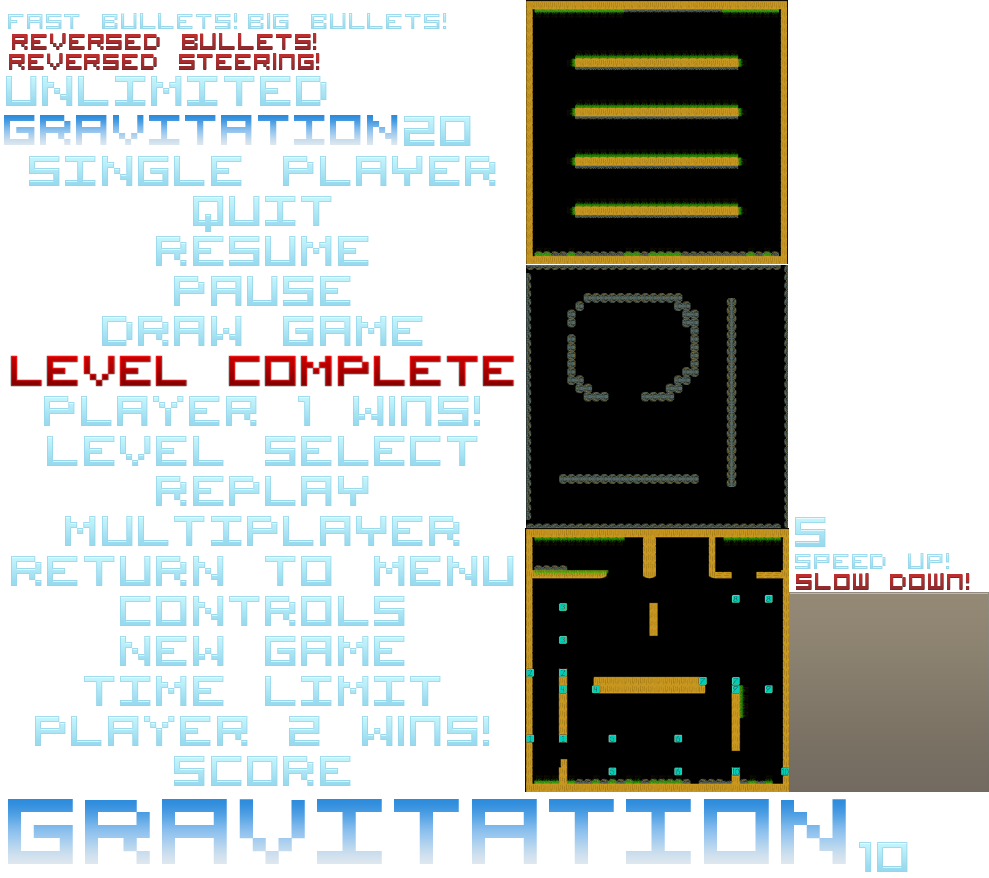
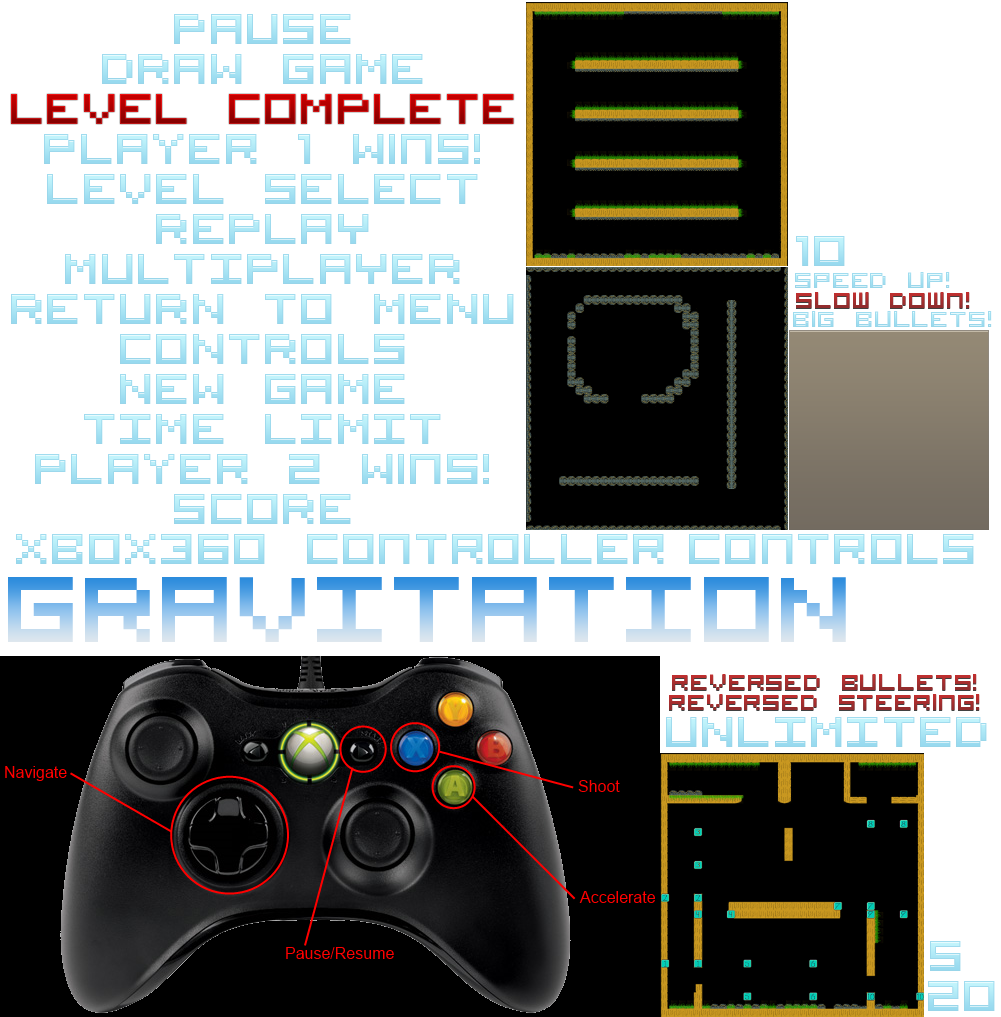
Working on a controls screen

diff --git a/Gravitaion/src/se/fredin/gravitation/screen/ui/MainMenuScreen.java b/Gravitaion/src/se/fredin/gravitation/screen/ui/MainMenuScreen.java
@@ -20,14 +20,16 @@ import com.badlogic.gdx.scenes.scene2d.ui.Image;
  */
 public class MainMenuScreen extends MenuBase {
 	
-	private Button singlePlayerButton, multiPlayerButton, quitButton;
+	private Button singlePlayerButton, optionsButton, multiPlayerButton, quitButton;
 	private boolean singlePlayerButtonClicked;
 	private boolean multiPlayerButtonClicked;
 	private boolean quitButtonClicked;
 	private Image titleImage;
 	private final byte SINGLE_PLAYER = 1; 
-	private final byte MULTIPLAYER = 2; 
-	private final byte QUIT = 3;		
+	private final byte OPTIONS = 2; 
+	private final byte MULTIPLAYER = 3; 
+	private final byte QUIT = 4;
+	protected boolean optionsButtonPressed;		
 	
 	public MainMenuScreen(Game game) {
 		super(game);
@@ -36,6 +38,7 @@ public class MainMenuScreen extends MenuBase {
 		if(!Gravitation.isMobileDevice()) {
 			setListener(multiPlayerButton, MULTIPLAYER);
 		}
+		setListener(optionsButton, OPTIONS);
 		setListener(quitButton, QUIT);
 		setPositionsAndSizes(camera.viewportWidth, camera.viewportHeight);	
 	}
@@ -65,6 +68,9 @@ public class MainMenuScreen extends MenuBase {
 		} else if(multiPlayerButtonClicked && uiHelper.isFinishedActing(whiteCanvasImage)) {
 			stage.clear();
 			game.setScreen(new LevelSelect(game, GameMode.MULTI_PLAYER));
+		} else if(optionsButtonPressed && uiHelper.isFinishedActing(optionsButton)) {
+			stage.clear();
+			game.setScreen(new OptionsScreen(game));
 		} else if(quitButtonClicked && uiHelper.isFinishedActing(whiteCanvasImage)) {
 			Gdx.app.exit();
 		}
@@ -76,6 +82,7 @@ public class MainMenuScreen extends MenuBase {
 		if(!Gravitation.isMobileDevice()) {
 			multiPlayerButton = uiHelper.getButton("multiplayer");
 		}
+		optionsButton = uiHelper.getButton("options");
 		quitButton = uiHelper.getButton("quit");
 		
 		titleImage = uiHelper.getImage("TITLE-SMALL", 300 * uiHelper.getScale(), 30 * uiHelper.getScale());
@@ -96,11 +103,12 @@ public class MainMenuScreen extends MenuBase {
 		
 		singlePlayerButton.setSize(buttonWidth, buttonHeight);
 		float buttonCenterX = camera.position.x - (singlePlayerButton.getWidth() / 2);
-		singlePlayerButton.setBounds(buttonCenterX, height - titleImage.getHeight() - spacingY * 1.5f, buttonWidth, buttonHeight);
+		singlePlayerButton.setBounds(buttonCenterX, height - titleImage.getHeight() - spacingY * 1.25f, buttonWidth, buttonHeight);
 		if(!Gravitation.isMobileDevice()){
 			multiPlayerButton.setBounds(buttonCenterX, singlePlayerButton.getY() - spacingY, buttonWidth, buttonHeight);
 		}
-		quitButton.setBounds(buttonCenterX, !Gravitation.isMobileDevice() ? multiPlayerButton.getY() - spacingY : singlePlayerButton.getY() - spacingY, buttonWidth, buttonHeight);
+		optionsButton.setBounds(buttonCenterX, !Gravitation.isMobileDevice() ? multiPlayerButton.getY() - spacingY : singlePlayerButton.getY() - spacingY, buttonWidth, buttonHeight);
+		quitButton.setBounds(buttonCenterX, optionsButton.getY() - spacingY, buttonWidth, buttonHeight);
 	}
 	
 	@Override
@@ -118,6 +126,11 @@ public class MainMenuScreen extends MenuBase {
 				case SINGLE_PLAYER:	// Start a single player game!!
 					uiHelper.animateActorAndFadeOutScreen(singlePlayerButton, whiteCanvasImage, 0.1f, 1.2f);
 					singlePlayerButtonClicked = true;
+					disableButtons();
+					return true;
+				case OPTIONS: // Options
+					uiHelper.animateActorAndFadeOutScreen(optionsButton, whiteCanvasImage, 0.1f, 1.2f);
+					optionsButtonPressed = true;
 					disableButtons();
 					return true;
 				case MULTIPLAYER: // Start a multiplayer game
@@ -142,6 +155,7 @@ public class MainMenuScreen extends MenuBase {
 		if(!Gravitation.isMobileDevice()) {
 			multiPlayerButton.setTouchable(Touchable.disabled);
 		}
+		optionsButton.setTouchable(Touchable.disabled);
 		quitButton.setTouchable(Touchable.disabled);
 	}
 	

diff --git a/Gravitaion/src/se/fredin/gravitation/screen/ui/OptionsScreen.java b/Gravitaion/src/se/fredin/gravitation/screen/ui/OptionsScreen.java
@@ -1,0 +1,59 @@
+package se.fredin.gravitation.screen.ui;
+
+import se.fredin.gravitation.Gravitation;
+
+import com.badlogic.gdx.Game;
+import com.badlogic.gdx.scenes.scene2d.Actor;
+import com.badlogic.gdx.scenes.scene2d.InputEvent;
+import com.badlogic.gdx.scenes.scene2d.InputListener;
+import com.badlogic.gdx.scenes.scene2d.ui.Image;
+
+public class OptionsScreen extends MenuBase {
+
+	private Image mobileDeviceControlsImage;
+	private Image titleImage;
+	private Image keyboardControlsImage;
+	private Image gamePadControlsImage;
+	private Image returnToMenuImage;
+	
+	public OptionsScreen(Game game) {
+		super(game);
+		initImages();
+		setPositions();
+		setListener(returnToMenuImage, (byte) 1);
+	}
+
+	private void initImages() {
+		float titleWidth = 200 * uiHelper.getScale();
+		float titleHeight = 20 * uiHelper.getScale();
+		titleImage = uiHelper.getImage("controls", titleWidth, titleHeight);
+		if(Gravitation.isMobileDevice()) {
+			mobileDeviceControlsImage = uiHelper.getImage("mobile", 100, 100);
+		} else {
+			keyboardControlsImage = uiHelper.getImage("keyboard", 100, 150);
+			gamePadControlsImage = uiHelper.getImage("Xbox360 Controller", 100, 150);
+		}
+		returnToMenuImage = uiHelper.getImage("return to menu", 133.3f * uiHelper.getScale(), 13.3f * uiHelper.getScale());
+	}
+	
+	private void setPositions() {
+		float buttonCenterX = camera.position.x - (titleImage.getWidth() / 2);
+		float spacingY = 20 * uiHelper.getScale();
+		if(Gravitation.isMobileDevice()) {
+			mobileDeviceControlsImage.setPosition(buttonCenterX, titleImage.getY() - titleImage.getHeight());
+		}
+		returnToMenuImage.setPosition(buttonCenterX, Gravitation.isMobileDevice() ? mobileDeviceControlsImage.getY() - mobileDeviceControlsImage.getHeight() : gamePadControlsImage.getY() - gamePadControlsImage.getHeight());
+	}
+	
+	@Override
+	protected void setListener(Actor actor, byte ACTION) {
+		actor.addListener(new InputListener(){
+			@Override
+			public boolean touchDown(InputEvent event, float x, float y, int pointer, int button) {
+				game.setScreen(new MainMenuScreen(game));
+				return true;
+			}
+		});
+	}
+
+}
